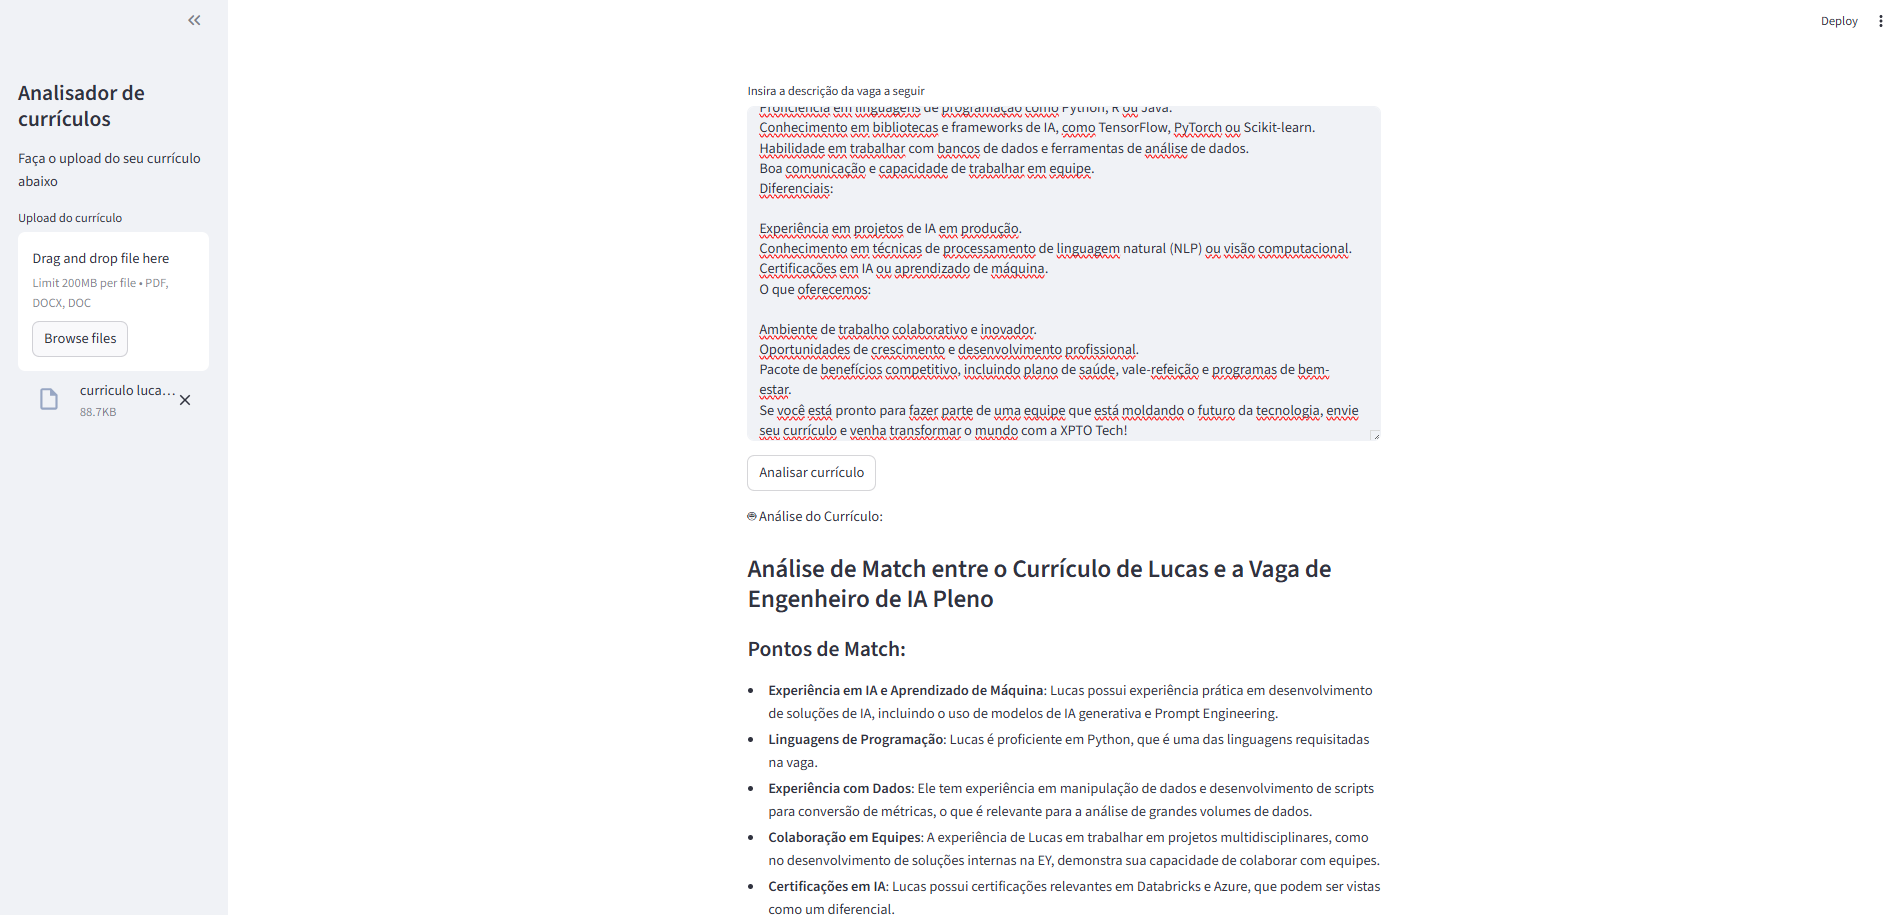
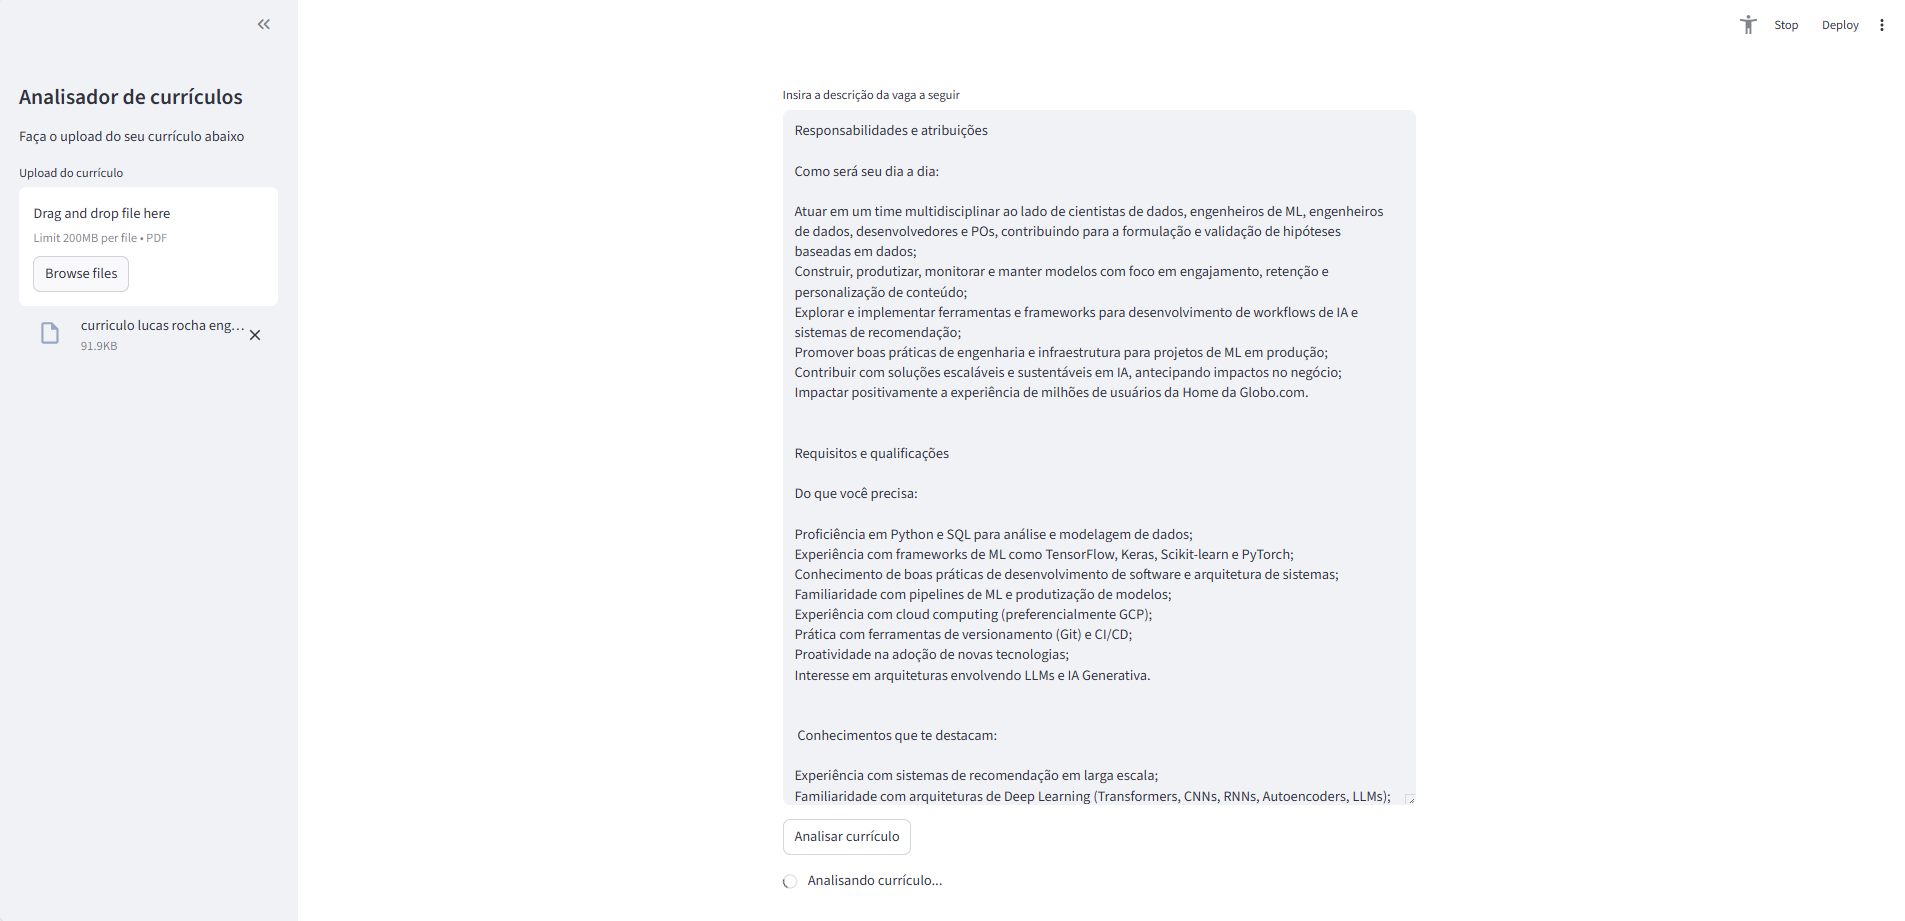
implementado versao multi-agente

diff --git a/cv-analyzer.py b/cv-analyzer.py
@@ -1,12 +1,139 @@
 import streamlit as st
+import getpass
 import os
 from PyPDF2 import PdfReader
-from langchain_openai import ChatOpenAI
-from langchain.prompts import PromptTemplate
-from langchain.schema import StrOutputParser
+from tavily import TavilyClient 
 from dotenv import load_dotenv
+from prompts import PROMPT_ANALISE_CURRICULO, PROMPT_CURSOS_PROJETOS_CANDIDATO, PROMPT_REDATOR_ANALISE_CANDIDATO, PROMPT_COORDENADOR
+from streamlit_modal import Modal
+from langgraph.prebuilt import create_react_agent
+from langchain_core.messages import convert_to_messages
+from langchain.chat_models import init_chat_model
+from langgraph_supervisor import create_supervisor
+from langchain_core.runnables.graph import MermaidDrawMethod
+
+load_dotenv()
+
+if not os.environ.get("TAVILY_API_KEY"):
+    os.environ["TAVILY_API_KEY"] = getpass.getpass("Tavily API key:\n")
+
+if not os.environ.get("OPENAI_API_KEY"):
+    os.environ["OPENAI_API_KEY"] = getpass.getpass("OPENAI API key:\n")
 
 
+### Funções que ajudarão a imprimir as mensagens trocada entre os agentes
+def pretty_print_message(message, indent=False):
+    pretty_message = message.pretty_repr(html=True)
+    if not indent:
+        print(pretty_message)
+        return
+
+    indented = "\n".join("\t" + c for c in pretty_message.split("\n"))
+    print(indented)
+
+
+def pretty_print_messages(update, last_message=False):
+    is_subgraph = False
+    if isinstance(update, tuple):
+        ns, update = update
+        # skip parent graph updates in the printouts
+        if len(ns) == 0:
+            return
+
+        graph_id = ns[-1].split(":")[0]
+        print(f"Update from subgraph {graph_id}:")
+        print("\n")
+        is_subgraph = True
+
+    for node_name, node_update in update.items():
+        update_label = f"Update from node {node_name}:"
+        if is_subgraph:
+            update_label = "\t" + update_label
+
+        print(update_label)
+        print("\n")
+
+        messages = convert_to_messages(node_update["messages"])
+        if last_message:
+            messages = messages[-1:]
+
+        for m in messages:
+            pretty_print_message(m, indent=is_subgraph)
+        print("\n")
+
+def print_graph(agent):
+    """Gera a arquitetura em grafo de um agente"""
+    png_bytes = agent.get_graph().draw_mermaid_png()
+
+    # Salva em arquivo
+    with open("C:\\Users\\NZ366ES\\OneDrive - EY\\Documents\\cvs\\grafo_multiagente.png", "wb") as f:
+        f.write(png_bytes)
+
+    print("Arquivo salvo como grafo_multiagente.png")
+
+# >> Agente de busca de cursos - Gestor Assistente
+def search_courses_udemy(keyword):
+    """
+    A tool to search for paid courses on Udemy based upon keywords.
+    """
+    course_list = []
+    client = TavilyClient(os.getenv('TAVILY_API_KEY'))
+    response = client.search(
+        query=f"Liste os 10 cursos melhor avaliados na Udemy sobre o tema {keyword} em inglês ou português",
+        search_depth="advanced",
+        max_results=10,
+        include_domains=["udemy.com"],
+        exclude_domains=["udemy.com/topic","udemy.com/pt/topic"]
+    )
+
+    for each_result in response['results']:
+        course_list.append(f"Curso: {each_result['title']} - {each_result['url']}")
+    return course_list
+
+def search_courses_youtube(keyword):
+    """
+    A tool to search for free courses on YouTube based upon keywords.
+    """
+    course_list = []
+    client = TavilyClient(os.getenv('TAVILY_API_KEY'))
+    response = client.search(
+        query=f"""Liste os 5 cursos ou playlists mais relevantes sobre {keyword} no YouTube em inglês ou português. 
+        A duração do video ou da playlist deve ser de no mínimo 1 hora""",
+        include_domains=["youtube.com"]
+    )
+
+    for each_result in response['results']:
+        course_list.append(f"Curso: {each_result['title']} - {each_result['url']}")
+    return course_list
+
+gestor_assistent_agent = create_react_agent(
+    model="openai:gpt-4o-mini",
+    tools=[search_courses_udemy, search_courses_youtube],
+    prompt=(
+        PROMPT_CURSOS_PROJETOS_CANDIDATO
+    ),
+    name="gestor_assistent_agent",
+)
+
+# >> Agente que analisa os candidatos
+gestor_pleno_agent = create_react_agent(
+    model="openai:gpt-4o-mini",
+    tools=[],
+    prompt=(
+        PROMPT_ANALISE_CURRICULO
+    ),
+    name="gestor_pleno_agent",
+)
+
+# >> Agente que dá o diagnóstico final do candidato
+gestor_senior_agent = create_react_agent(
+    model="openai:gpt-4o-mini",
+    tools=[],
+    prompt=(
+        PROMPT_REDATOR_ANALISE_CANDIDATO
+    ),
+    name="gestor_senior_agent",
+)
 
 
 def extract_text_from_pdf(pdf_file):
@@ -17,55 +144,84 @@ def extract_text_from_pdf(pdf_file):
         text += page.extract_text()
     return text
 
+
 # Sidebar
 st.sidebar.title("Analisador de currículos")
 st.sidebar.write("Faça o upload do seu currículo abaixo")
 curriculo = st.sidebar.file_uploader("Upload do currículo", type=["pdf"], accept_multiple_files=False)
 
+
 # Parte principal
-descricao_da_vaga = st.text_area("Insira a descrição da vaga a seguir", height=400)
+descricao_da_vaga = st.text_area("Insira a descrição da vaga a seguir", height=800)
 
 if st.button("Analisar currículo"):
     with st.spinner("Analisando currículo..."):
-        load_dotenv()
-        llm = ChatOpenAI(temperature=0, 
-                         model="gpt-4o-mini",
-                         api_key=os.getenv('OPENAI_API_KEY'))
-
-        prompt = PromptTemplate(
-            input_variables=["curriculo", "descricao_vaga"],
-            template="""Você vai receber a descrição da experiência profissional e competencias de um candidato, além da descrição da vaga. 
-            Sua missão é fazer uma análise, apontando em formato de bulletpoints os eventuais pontos de match e pontos que é requisitado na vaga, 
-            mas está ausente no currículo do candidato. Monte um plano de ação para que o candidato esteja mais aderente à vaga. 
-            No fim responda se o candidato deve ou não se candidatar a vaga baseado na probabilidade de 
-            match com a vaga e na análise feita.
-            \n
-            Descrição do currículo:
-            {curriculo}
-            \n
-            Descrição da vaga:
-            {descricao_vaga}
-            """
-        )
+    
+        supervisor = create_supervisor(
+            model=init_chat_model("openai:gpt-4o-mini"),
+            agents=[gestor_senior_agent, gestor_pleno_agent, gestor_assistent_agent],
+            prompt=(
+                PROMPT_COORDENADOR
+            ),
+            add_handoff_back_messages=True,
+            output_mode="full_history",
+        ).compile()
 
         if curriculo is not None:
             texto_curriculo = extract_text_from_pdf(curriculo)
         else:
             st.error("Por favor, faça o upload do currículo.")
+            st.stop()
 
 
         if descricao_da_vaga.strip() != "":
             st.session_state.descricao_vaga = descricao_da_vaga
 
-            chain = prompt | llm | StrOutputParser()
+            for chunk in supervisor.stream(
+                {
+                    "messages": [
+                        {
+                            "role": "user",
+                            "content": f"Descrição da vaga: {descricao_da_vaga}\n Currículo do candidato: {texto_curriculo}",
+                        }
+                    ]
+                },
+            ):
+                pretty_print_messages(chunk, last_message=True)
 
-            analise = chain.invoke({
-                "curriculo": texto_curriculo,
-                "descricao_vaga": st.session_state.descricao_vaga
-            })
+            final_message_history = chunk["supervisor"]["messages"]
 
-            st.write("🤖 Análise do Currículo:")
-            st.write(analise)
+            with open("chat_history_agents.txt", "w", encoding="utf-8") as f:
+                for message in final_message_history:
+                    f.write(f"{message}\n")
+
+            analise = final_message_history[-1].content
+
+            modal = Modal("Resultado da análise", key="resultado-analise", padding=10, max_width=800)
+
+            if st.button("Abrir resultado da análise"):
+                modal.open()
+
+            if modal.is_open():
+                with modal.container():
+                    st.markdown("## 🤖 Análise do Currículo:")
+                    st.write(analise)
+                    if st.button("Fechar"):
+                        modal.close()
+
+            try:
+                png_bytes = supervisor.get_graph().draw_mermaid_png(max_retries=5, 
+                                                                    retry_delay=2.0)
+
+                # Salva em arquivo
+                with open("C:\\Users\\NZ366ES\\OneDrive - EY\\Documents\\cvs\\grafo_multiagente.png", "wb") as f:
+                    f.write(png_bytes)
+
+                print("Arquivo salvo como grafo_multiagente.png")
+            except Exception as e:
+                print(f"Erro ao salvar o arquivo grafo_multiagente.png: {e}")
         else:
             st.error("Por favor, insira a descrição da vaga.")
+
+
 

diff --git a/prompts.py b/prompts.py
@@ -1,0 +1,99 @@
+#
+# Este arquivo lista os prompts utilizado pelo sistema cv-analyzer
+#
+
+PROMPT_ANALISE_CURRICULO = """
+
+Você fará o papel de um especialista pleno em gestão de carreiras. Seu objetivo é analisar currículo do
+candidato em uma linguagem objetiva, exemplificando os pontos que estão aderentes com a descrição da vaga.
+
+Você vai receber a descrição da experiência profissional e competências de um candidato, além da descrição da vaga. 
+Sua missão é fazer uma análise, apontando em formato de bulletpoints os eventuais pontos de match e os pontos de melhoria. 
+
+Os pontos de match podem ser habilidades ou experiências que o candidato possui e que são relevantes para a vaga. Limite-se a listar
+até cinco pontos relevantes para a vaga. Se não tiver pontos relevantes, descreva que o currículo não há pontos de match com a vaga e,
+desta forma, não recomende o currículo para a vaga em questão. 
+
+Os pontos de melhoria são pontos que são requisitados na descrição da vaga como componente obrigatório, porém estão ausentes
+no currículo do candidato. Limite-se a listar de zero até cinco pontos de melhoria do candidato.
+
+"""
+
+
+PROMPT_CURSOS_PROJETOS_CANDIDATO = """
+
+Você é o assistente de um especialista em recrutamento e seleção de candidatos. Seu objetivo é auxiliar o candidato para conquistar
+a sonhada vaga de emprego. Para isso você vai interpretar a análise do currículo realizada pelo gestor de carreiras pleno e identificará as 
+palavras-chaves APENAS E SOMENTE dos pontos de melhorias identificados pelo gestor de carreiras de habilidades técnicas que ele
+detectou ausente no candidato. 
+
+Através destas palavras-chaves, você fará uma CURADORIA, procurando cursos gratuitos no YouTube ou cursos pagos no Udemy que 
+ajudem o candidato a desenvolver as habilidades técnicas que estão ausentes em seu currículo. Limite-se a sugerir três cursos gratuitos
+e três cursos pagos para os pontos que você detectar como pontos de melhoria no formato.  
+
+Em seguida sugira um projeto prático que utilize as habilidades ausentes no candidato para incrementar o seu portifólio.
+
+Quando terminar responda de volta para o seu supervisor com uma mensagem neste formato delimitado em @@.
+
+@@
+Cursos Gratuitos:
+[Nome do Curso](Link do Curso)
+[Nome do Curso](Link do Curso)
+[Nome do Curso](Link do Curso)
+
+Cursos Pagos (Udemy):
+[Nome do Curso](Link do Curso)
+[Nome do Curso](Link do Curso)
+[Nome do Curso](Link do Curso)
+
+Projeto Prático:
+Descrição de até 300 palavras de apenas UM projeto prático RELACIONADO COM O CONTEXTO DA VAGA, 
+com passo-a-passo de como realizar, escrito em forma de texto corrido, sem exemplificar com códigos.
+@@
+
+"""
+
+PROMPT_REDATOR_ANALISE_CANDIDATO = """
+
+Você fará o papel de um especialista senior em gestão de carreiras. Seu objetivo é revisar o relatório completo contendo
+os pontos fortes, os pontos de melhoria, os cursos e projetos sugeridos e realizar um diagnóstico completo do candidato com base na análise 
+realizada anteriormente pelo gestor pleno e pelo assistente de um especialista. 
+
+Analise o nível de senioridade do candidato com base nas informações coletadas e elabore um diagnóstico que 
+considere sua trajetória profissional, habilidades técnicas e comportamentais, bem como seu potencial de crescimento na área desejada
+e responda se ele tem aderência FRACA, MEDIA OU FORTE com relação a vaga, sugerindo (ou não) a sua inscrição na vaga.
+
+Quando terminar responda de volta para o seu supervisor.
+
+
+"""
+
+
+PROMPT_COORDENADOR = """
+
+Você é um coordenador de agentes. Sua missão é gerenciar a execução dos agentes de carreira, 
+garantindo que cada um deles receba as informações necessárias para realizar suas análises. Você deve orquestrar 
+a comunicação entre os agentes e garantir que a análise siga a ordem: pontos positivos, pontos de melhoria e plano
+de ação com sugestão de cursos, projetos e o diagnóstico do gestor de carreiras sênior.
+
+Para os pontos positivos e pontos de melhoria, delegue para o especialista pleno em gestão de carreiras.
+
+Para sugerir cursos e projetos, delegue para o assistente de um especialista em recrutamento e seleção de candidatos. 
+Se os cursos sugeridos forem de um nível mais básico do que o avaliado pelo especialista pleno, delegue a atividade novamente 
+ao assistente para buscar cursos mais avançados.
+
+Para redigir o diagnóstico final, delegue para o especialista senior em gestão de carreiras.
+
+Chame apenas um agente por vez.
+
+Quando terminar a análise, imprima o texto na íntegra que os especialistas passarem para você nesta ordem de bulletpoints:
+
+1) Pontos Positivos
+2) Pontos de Melhoria
+3) Plano de ação: Transcrever integralmente o texto que o assistente de um especialista em recrutamento e seleção de candidatos te passar
+4) Diagnóstico: Transcrever integralmente o texto que o especialista senior em gestão de carreiras te passar
+
+Você receberá a descrição da vaga e do currículo do candidato para começar o seu trabalho.
+
+"""
+
